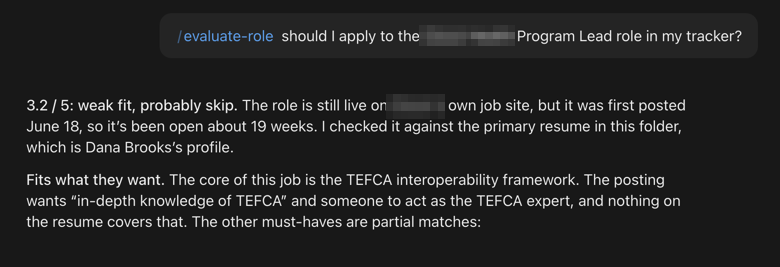
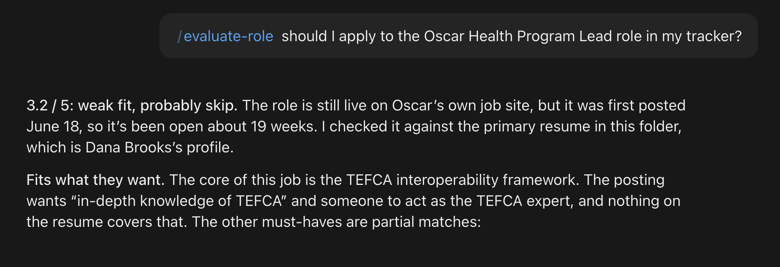
Recruiter BFF: use the unredacted screenshots
Kevin: no pixelation needed. Same crops and sizes, real company names
visible in the screenshots; drop the 'names are blurred' line and
cache-bust the image URLs.

Changed region(s): [[0.5231, 0.1199, 0.6769, 0.1798], [0.4923, 0.3596, 0.5846, 0.4195]]

diff --git a/recruiter-bff/index.html b/recruiter-bff/index.html
@@ -185,18 +185,18 @@
 <section class="blk alt" id="real" aria-labelledby="real-h">
   <div class="wrap">
     <div class="sec-h"><h2 id="real-h">See it in Claude and ChatGPT</h2><span class="k">Real postings, real answers</span></div>
-    <p class="lead-in">Dana Brooks is a demo job seeker, a senior project manager in New York. The postings, scores, and skips below came from a real run. Company names are blurred.</p>
+    <p class="lead-in">Dana Brooks is a demo job seeker, a senior project manager in New York. The postings, scores, and skips below came from a real run.</p>
     <div class="shots">
       <figure class="shot">
-        <a href="images/real-chatgpt-skip.png" target="_blank" rel="noopener"><img src="images/real-chatgpt-skip.png" width="770" height="230" loading="lazy" alt="ChatGPT desktop app. Asked whether to apply to a Principal Technical Program Manager role in the tracker, Recruiter BFF answers 2.7 out of 5, I'd skip this one, names the strongest match, and lists the five scores. The company name is blurred."></a>
+        <a href="images/real-chatgpt-skip.png?v=2" target="_blank" rel="noopener"><img src="images/real-chatgpt-skip.png?v=2" width="770" height="230" loading="lazy" alt="ChatGPT desktop app. Asked whether to apply to a Principal Technical Program Manager role in the tracker, Recruiter BFF answers 2.7 out of 5, I'd skip this one, names the strongest match, and lists the five scores."></a>
         <figcaption><b>It tells you to skip, too.</b> 2.7 out of 5 in ChatGPT, with the one strong match it found.</figcaption>
       </figure>
       <figure class="shot">
-        <a href="images/real-claude-skip.png" target="_blank" rel="noopener"><img src="images/real-claude-skip.png" width="780" height="267" loading="lazy" alt="Claude desktop app. Asked with /evaluate-role about a Program Lead role in the tracker, it answers 3.2 out of 5, weak fit, probably skip. The posting has been open about 19 weeks and wants deep TEFCA knowledge the resume doesn't show. The company name is blurred."></a>
+        <a href="images/real-claude-skip.png?v=2" target="_blank" rel="noopener"><img src="images/real-claude-skip.png?v=2" width="780" height="267" loading="lazy" alt="Claude desktop app. Asked with /evaluate-role about a Program Lead role in the tracker, it answers 3.2 out of 5, weak fit, probably skip. The posting has been open about 19 weeks and wants deep TEFCA knowledge the resume doesn't show."></a>
         <figcaption><b>Same straight answer in Claude.</b> Open 19 weeks, and missing the one thing the posting wants most.</figcaption>
       </figure>
       <figure class="shot wide">
-        <a href="images/real-chatgpt-pipeline.png" target="_blank" rel="noopener"><img src="images/real-chatgpt-pipeline.png" width="920" height="500" loading="lazy" alt="ChatGPT desktop app. Asked what's in my pipeline, Recruiter BFF shows a table of three roles with status, score, last update, and next step: one in screening at 4.2 out of 5 with a recruiter screen Thursday, and two prospects. Company names are blurred."></a>
+        <a href="images/real-chatgpt-pipeline.png?v=2" target="_blank" rel="noopener"><img src="images/real-chatgpt-pipeline.png?v=2" width="920" height="500" loading="lazy" alt="ChatGPT desktop app. Asked what's in my pipeline, Recruiter BFF shows a table of three roles with status, score, last update, and next step: one in screening at 4.2 out of 5 with a recruiter screen Thursday, and two prospects."></a>
         <figcaption><b>One tracker, either app.</b> Claude built this tracker, and ChatGPT reads the same plain files.</figcaption>
       </figure>
     </div>
